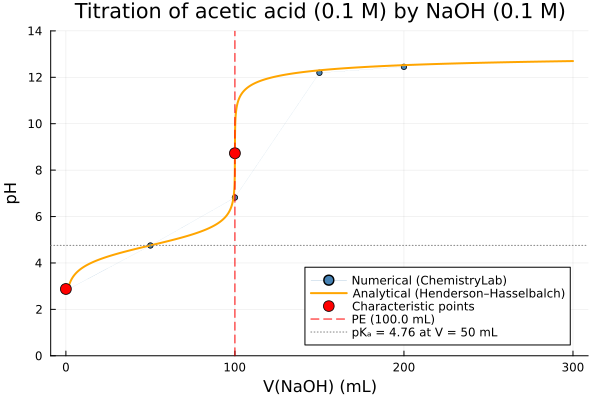
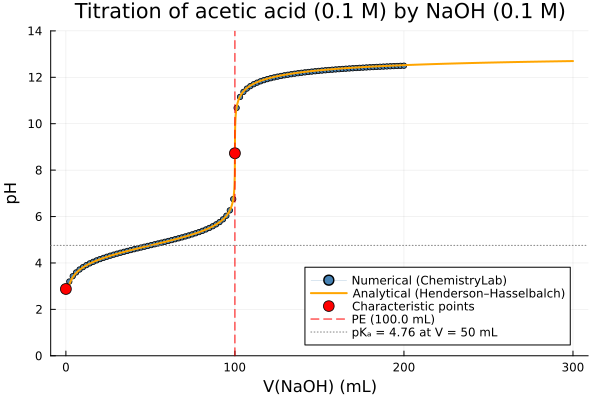
Update titration examples: enhance species handling and increase volume range for NaOH

diff --git a/docs/src/examples/titration_maleic_acid.md b/docs/src/examples/titration_maleic_acid.md
@@ -34,7 +34,11 @@ aq_species  = speciation(substances_inorg, split("H2O@ Na+ NaOH@ H+ OH-"); aggre
 ace_species = speciation(substances_org,   split("MalH2@ MalH- Mal-2");             aggregate_state = [AS_AQUEOUS])
 species     = unique(s -> symbol(s), vcat(aq_species, ace_species))
 
+dict_all_species = merge(Dict(symbol(s) => s for s in substances_inorg), Dict(symbol(s) => s for s in substances_org))
+species = [dict_all_species[s] for s in split("H2O@ Na+ NaOH@ H+ OH- MalH2@ MalH- Mal-2")]
+
 cs = ChemicalSystem(species, ["H2O@", "H+", "Mal-2", "Na+", "Zz"])
+
 ```
 
 Build the [`EquilibriumSolver`](@ref) once — it is reused for each of the 66 titration points:
@@ -46,15 +50,13 @@ solver = EquilibriumSolver(
     cs,
     DiluteSolutionModel(),
     IpoptOptimizer(
-        acceptable_tol        = 1e-5,
-        dual_inf_tol          = 1e-5,
-        acceptable_iter       = 1000,
-        constr_viol_tol       = 1e-5,
-        warm_start_init_point = "no",
+        mu_strategy = "adaptive",
     );
     variable_space = Val(:linear),
-    abstol  = 1e-5,
-    reltol  = 1e-5,
+    abstol  = 1e-8,
+    reltol  = 1e-8,
+    maxiters = 100,
+    verbose = 0,
 )
 ```
 
@@ -71,7 +73,7 @@ c_acid = 0.1     # maleic acid concentration, mol/L
 c_base = 2     # NaOH concentration, mol/L
 n_H2A  = V_acid * c_acid   # total moles of H₂A = 2.5 mmol
 
-volumes_NaOH = range(0, 15; length = 31)   # mL
+volumes_NaOH = range(0, 15; length = 101)   # mL
 pH_vals = Float64[]
 
 for V_mL in volumes_NaOH
@@ -93,11 +95,7 @@ for V_mL in volumes_NaOH
 end
 
 println("pH at V = 0 mL (pure acid)        : ", round(pH_vals[1],  digits = 2))
-println("pH at V = 2.5 mL (½ PE₁, ≈ pKa₁): ", round(pH_vals[6], digits = 2))
-println("pH at V = 5 mL  (PE₁)            : ", round(pH_vals[11], digits = 2))
-println("pH at V = 7.5 mL (½ PE₂, ≈ pKa₂): ", round(pH_vals[16], digits = 2))
-println("pH at V = 10 mL  (PE₂)            : ", round(pH_vals[21], digits = 2))
-println("pH at V = 15 mL  (excess NaOH)    : ", round(pH_vals[26], digits = 2))
+println("pH at V = 15 mL  (excess NaOH)    : ", round(pH_vals[100], digits = 2))
 ```
 
 ---
@@ -105,7 +103,7 @@ println("pH at V = 15 mL  (excess NaOH)    : ", round(pH_vals[26], digits = 2))
 ## Titration curve
 
 ```julia
-using Plots #hide
+using Plots
 
 pKa1 = 1.92
 pKa2 = 6.27

diff --git a/docs/src/examples/titration_acetic_acid.md b/docs/src/examples/titration_acetic_acid.md
@@ -33,9 +33,8 @@ using DynamicQuantities
 substances_inorg = build_species("../../../data/slop98-inorganic-thermofun.json")
 substances_org   = build_species("../../../data/slop98-organic-thermofun.json")
 
-aq_species  = speciation(substances_inorg, split("H2O@ Na+ NaOH@ H+ OH-"); aggregate_state = [AS_AQUEOUS])
-ace_species = speciation(substances_org,   split("AceH@ Ace-");             aggregate_state = [AS_AQUEOUS])
-species     = unique(s -> symbol(s), vcat(aq_species, ace_species))
+dict_all_species = merge(Dict(symbol(s) => s for s in substances_inorg), Dict(symbol(s) => s for s in substances_org))
+species = [dict_all_species[s] for s in split("H2O@ Na+ NaOH@ H+ OH- AceH@ Ace-")]
 
 cs = ChemicalSystem(species, ["H2O@", "H+", "Ace-", "Na+"])
 ```
@@ -63,7 +62,7 @@ println("pKa = ", round(pKa, digits = 2))
 Build the [`EquilibriumSolver`](@ref) once — it is reused for each titration point:
 
 ```julia
-using OptimizationIpopt #hide
+using OptimizationIpopt
 
 solver = EquilibriumSolver(
     cs,
@@ -97,15 +96,15 @@ nAH  = ca * Va # total moles of CH₃COOH = 10 mmol
 Vbeq = nAH / cb          # equivalence volume, L
 V_eq = Vbeq * 1e3        # equivalence volume, mL
 
-volumes_NaOH = range(0, 2 * V_eq; length = 5)   # mL
+volumes_NaOH = range(0, 2 * V_eq; length = 100)   # mL
 pH_vals = Float64[]
 
+s = ChemicalState(cs)
 for V_mL in volumes_NaOH
     Vb      = V_mL * 1e-3     # L
     n_NaOH  = cb * Vb         # mol of NaOH added
     V_total = Va + Vb          # total volume, L
 
-    s = ChemicalState(cs)
     set_quantity!(s, "AceH@", nAH    * u"mol")
     set_quantity!(s, "NaOH@", n_NaOH * u"mol")
     set_quantity!(s, "H2O@",  V_total * u"kg")
